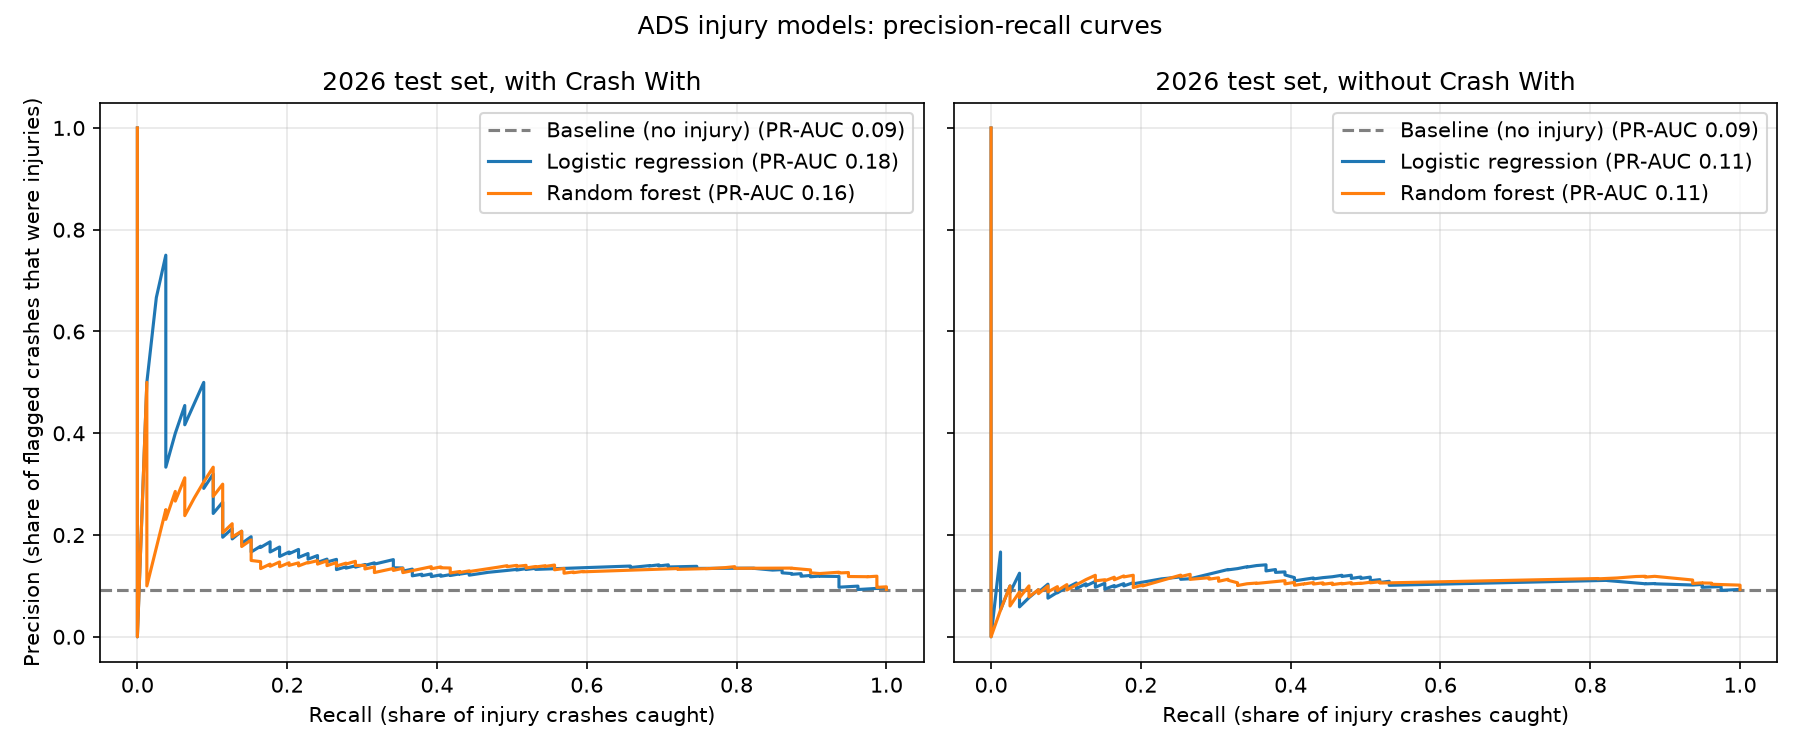
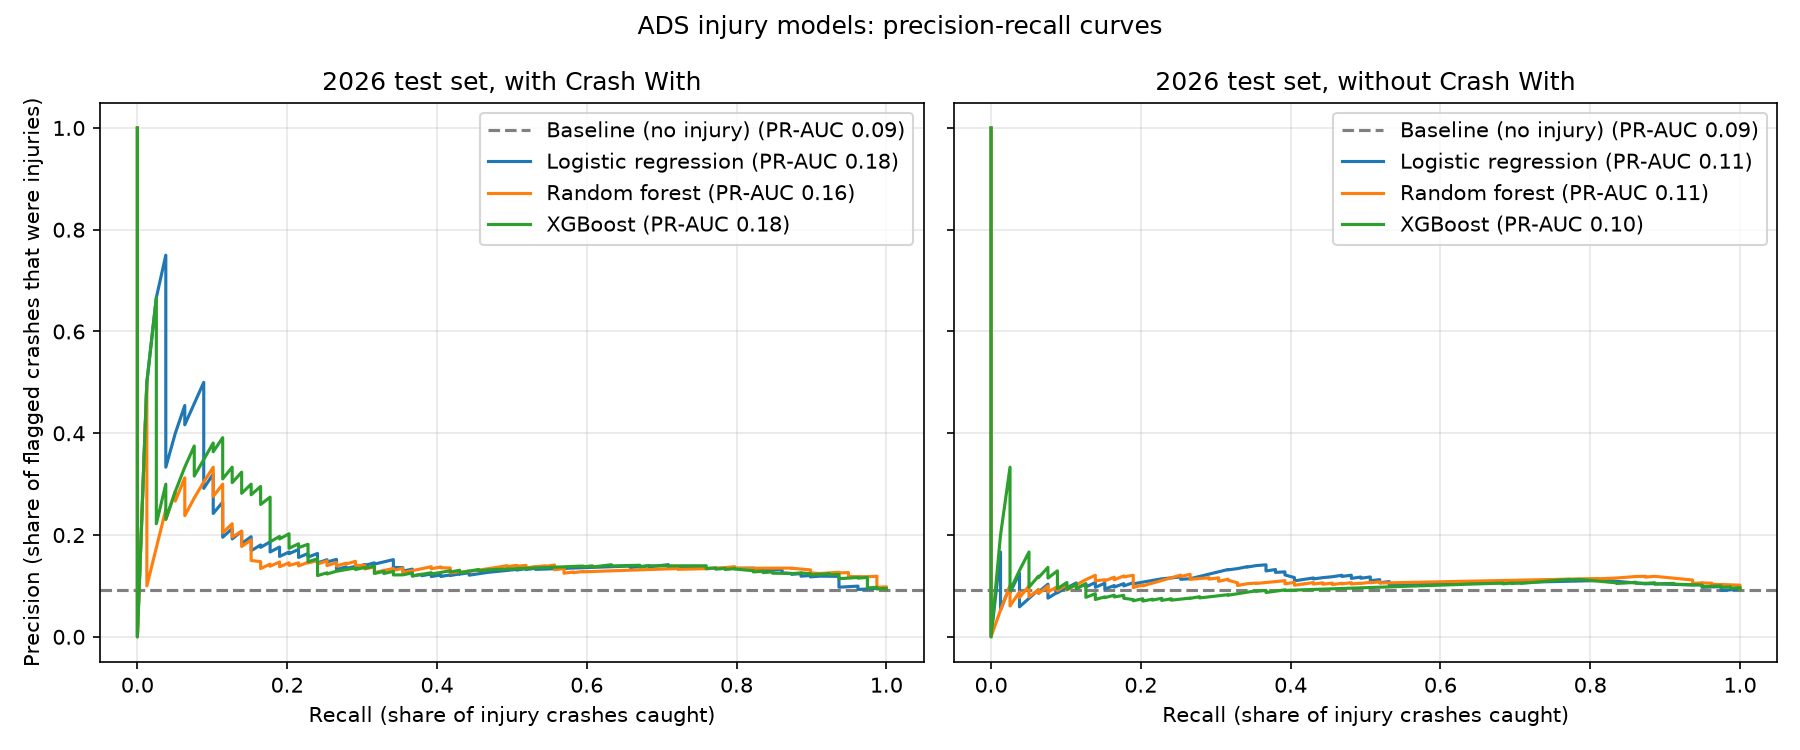
kept pr_curves.png for merging

diff --git a/scripts/train_models.py b/scripts/train_models.py
@@ -249,7 +249,7 @@ for ax, label in zip(axes, ["with Crash With", "without Crash With"]):
 axes[0].set_ylabel("Precision (share of flagged crashes that were injuries)")
 fig.suptitle("ADS injury models: precision-recall curves")
 fig.tight_layout()
-fig.savefig(fig_folder / "pr_curves_with_XGBoost.png", dpi=150)
+fig.savefig(fig_folder / "pr_curves.png", dpi=150)
 
 # random forest feature importance (with Crash With), measured on 2026:
 # how much PR-AUC drops when one feature's values are shuffled
